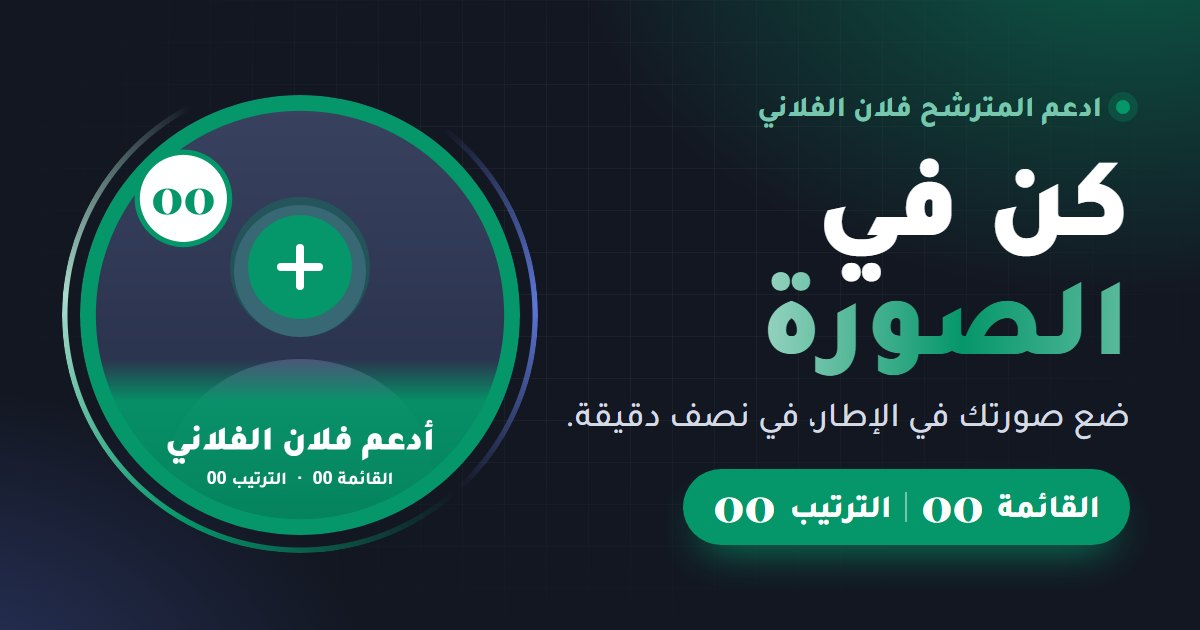
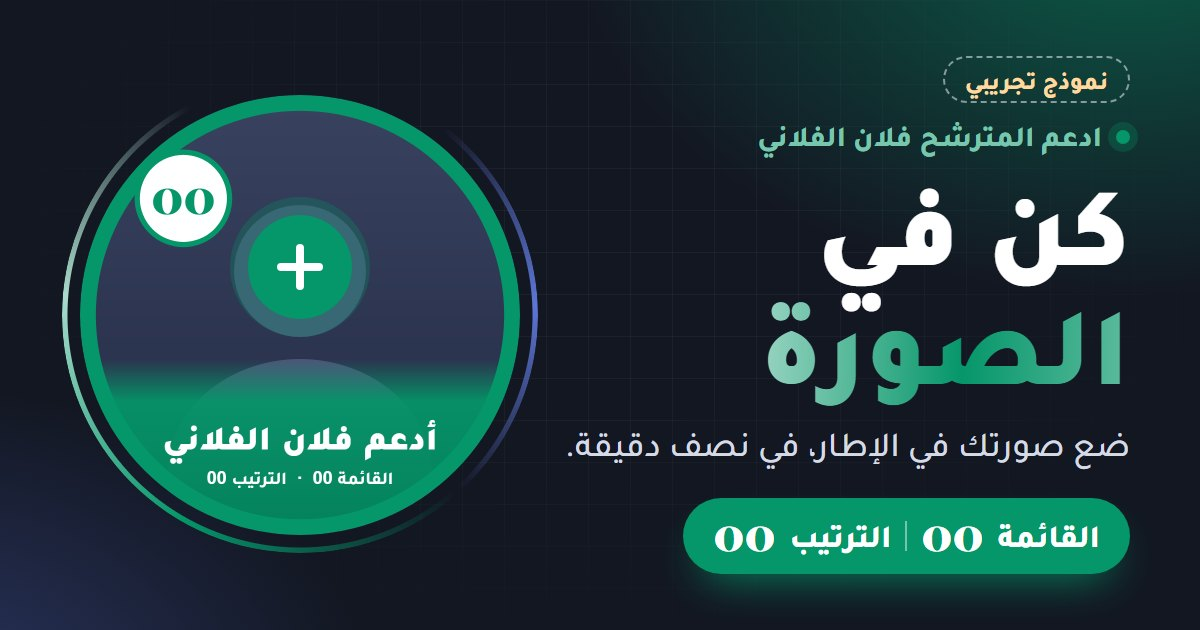
Add files via upload

Changed region(s): [[0.4625, 0.1206, 0.9558, 0.9651], [0.1233, 0.6635, 0.2467, 0.754], [0.2775, 0.6635, 0.37, 0.7238]]

diff --git a/demo/index.html b/demo/index.html
@@ -42,6 +42,7 @@ h1,h2,p,ol{margin:0}
 .tag{display:inline-block;height:36px;line-height:34px;padding:0 14px;border-radius:999px;background:rgba(255,255,255,.08);border:1px solid rgba(255,255,255,.14);font-weight:800;font-size:13.5px;white-space:nowrap}
 .tag b{font-family:var(--num);font-weight:900;font-size:19px;color:var(--o3);margin:0 4px;vertical-align:-1px}
 .tag i{display:inline-block;width:1px;height:14px;background:rgba(255,255,255,.25);margin:0 7px;vertical-align:-2px}
+.smp{display:inline-block;height:36px;line-height:34px;padding:0 12px;margin-right:8px;border-radius:999px;border:1px dashed rgba(255,255,255,.45);font-weight:800;font-size:12.5px;color:#FFD9A0;white-space:nowrap}
 
 .grid{padding:10px 0 150px}
 .head{text-align:center}
@@ -139,7 +140,7 @@ h1 em{font-style:normal;color:#5FBC9F}
 <div class="bg" aria-hidden="true"></div>
 <div class="wrap">
 <header class="top">
- <span class="tag">القائمة <b>00</b><i></i>الترتيب <b>00</b></span>
+ <span class="tag">القائمة <b>00</b><i></i>الترتيب <b>00</b></span><span class="smp">نموذج تجريبي</span>
 </header>
 
 <main class="grid">
